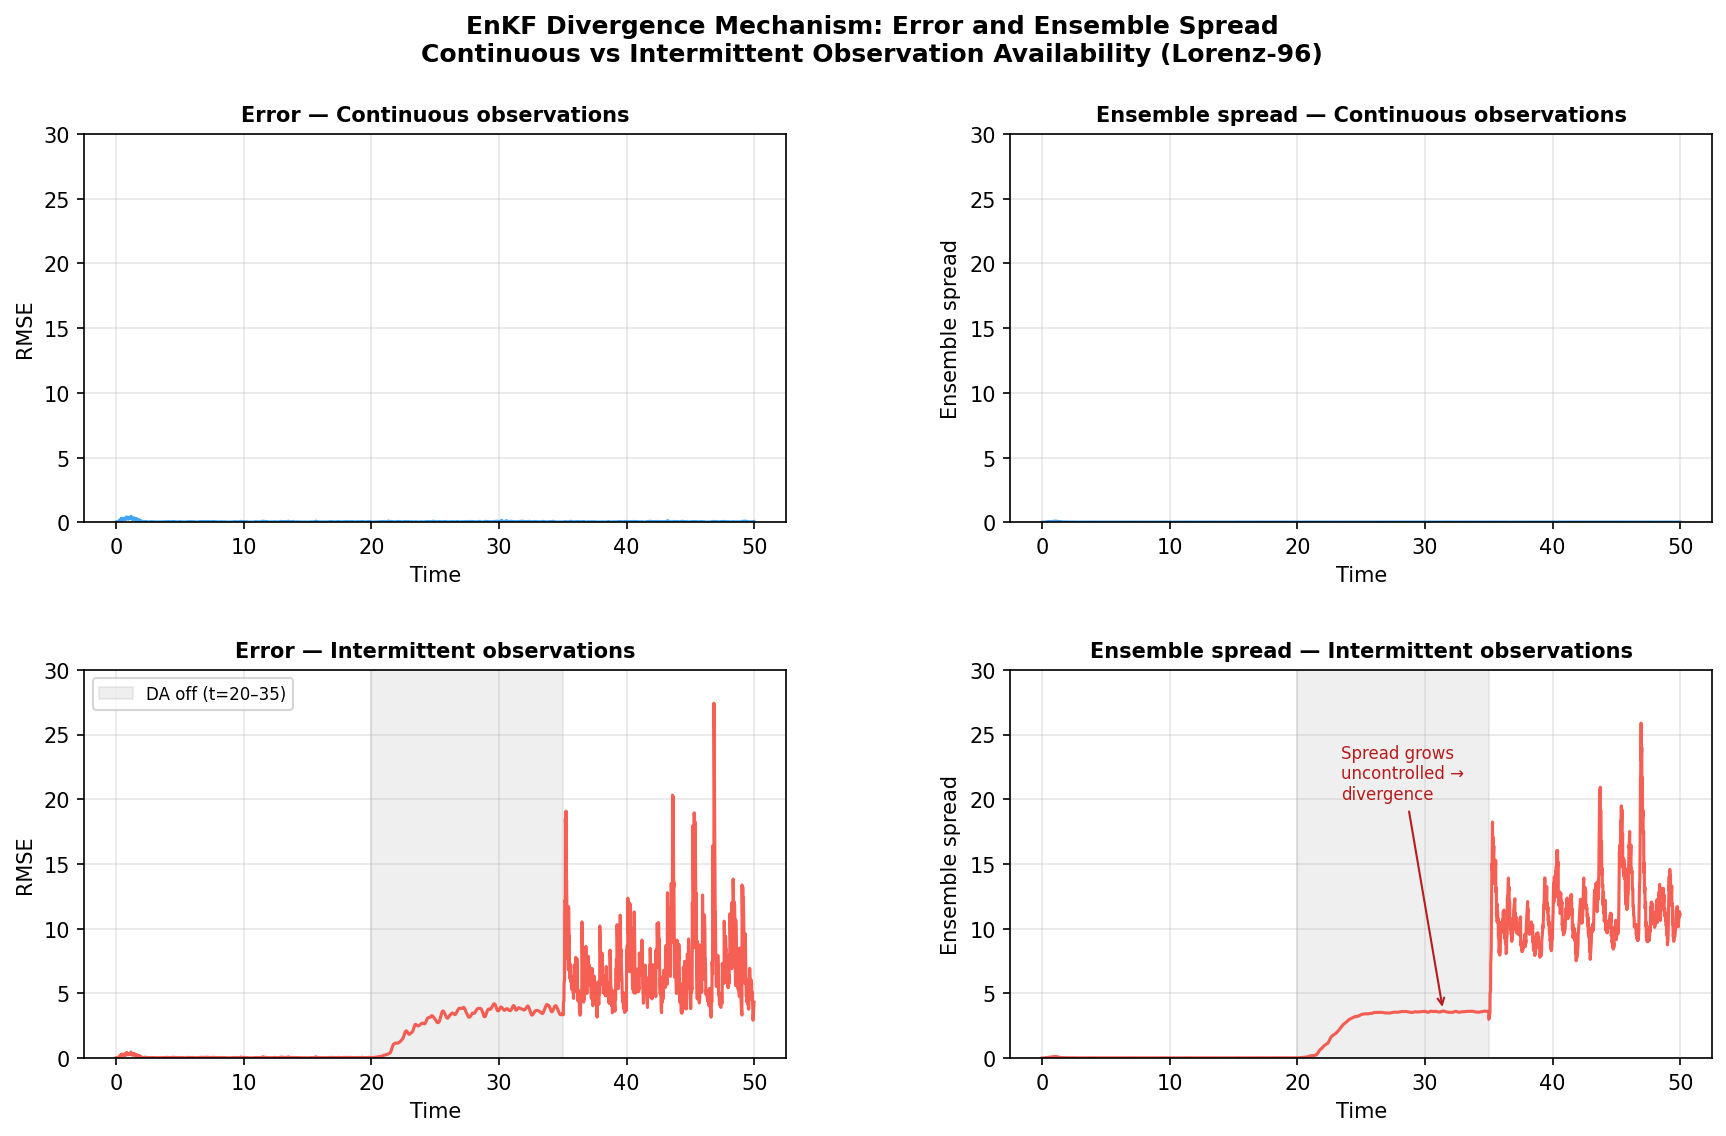
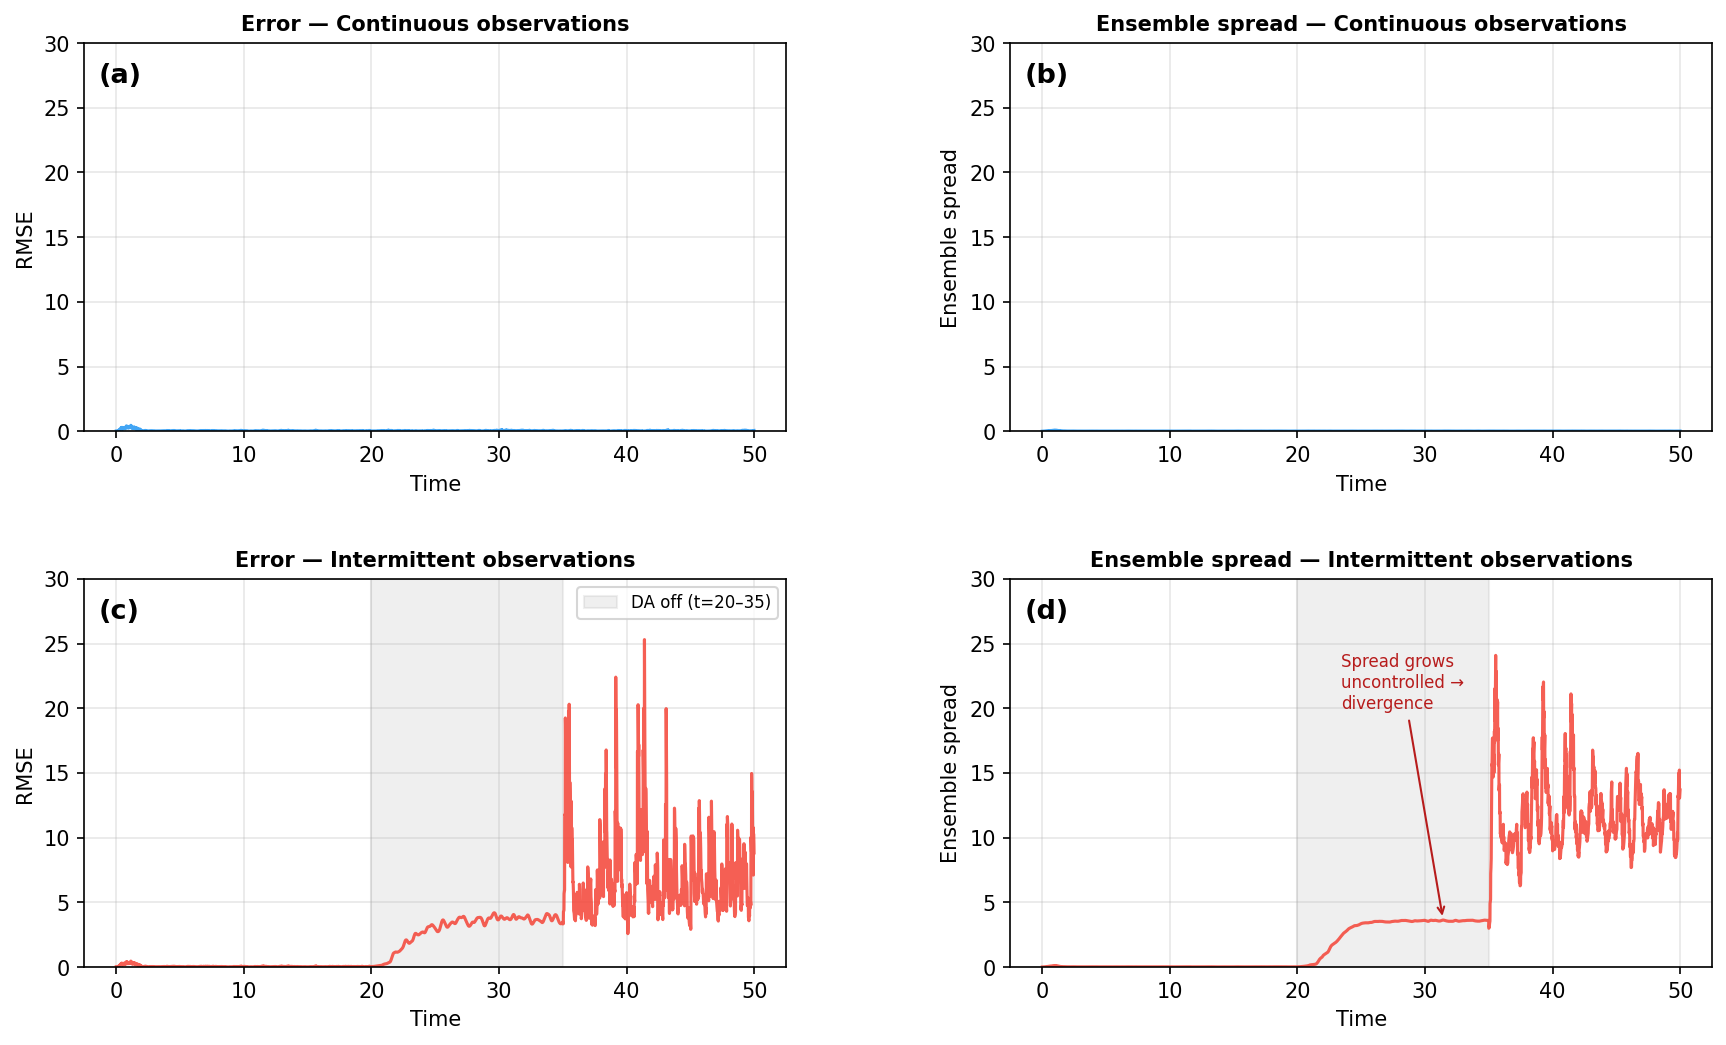
Fix enkf_spread_plot.py path bug and lorenz96_da.py label contrast; regenerate both figures

diff --git a/src/lorenz96_da.py b/src/lorenz96_da.py
@@ -538,7 +538,9 @@ if __name__ == "__main__":
         axes_supp[col].text(0.02, 0.95, ['(a)', '(b)'][col],
                              transform=axes_supp[col].transAxes,
                              fontsize=13, fontweight='bold', va='top',
-                             color='white')
+                             color='black',
+                             bbox=dict(boxstyle='round', facecolor='white',
+                                       alpha=0.8, edgecolor='none'))
         axes_supp[col].set_xlabel('Variable k')
         axes_supp[col].set_ylabel('Time')
         plt.colorbar(im, ax=axes_supp[col])

diff --git a/src/enkf_spread_plot.py b/src/enkf_spread_plot.py
@@ -22,7 +22,7 @@ import numpy as np
 import matplotlib.pyplot as plt
 import matplotlib.gridspec as gridspec
 import sys, os
-sys.path.append(os.path.dirname(os.path.abspath('.')))
+sys.path.append(os.path.dirname(os.path.dirname(os.path.abspath(__file__))))
 from src.lorenz96 import (integrate_lorenz96, make_initial_condition,
                            generate_observations_96)
 from src.enkf import run_enkf_lorenz96, rk4_step, enkf_analysis
